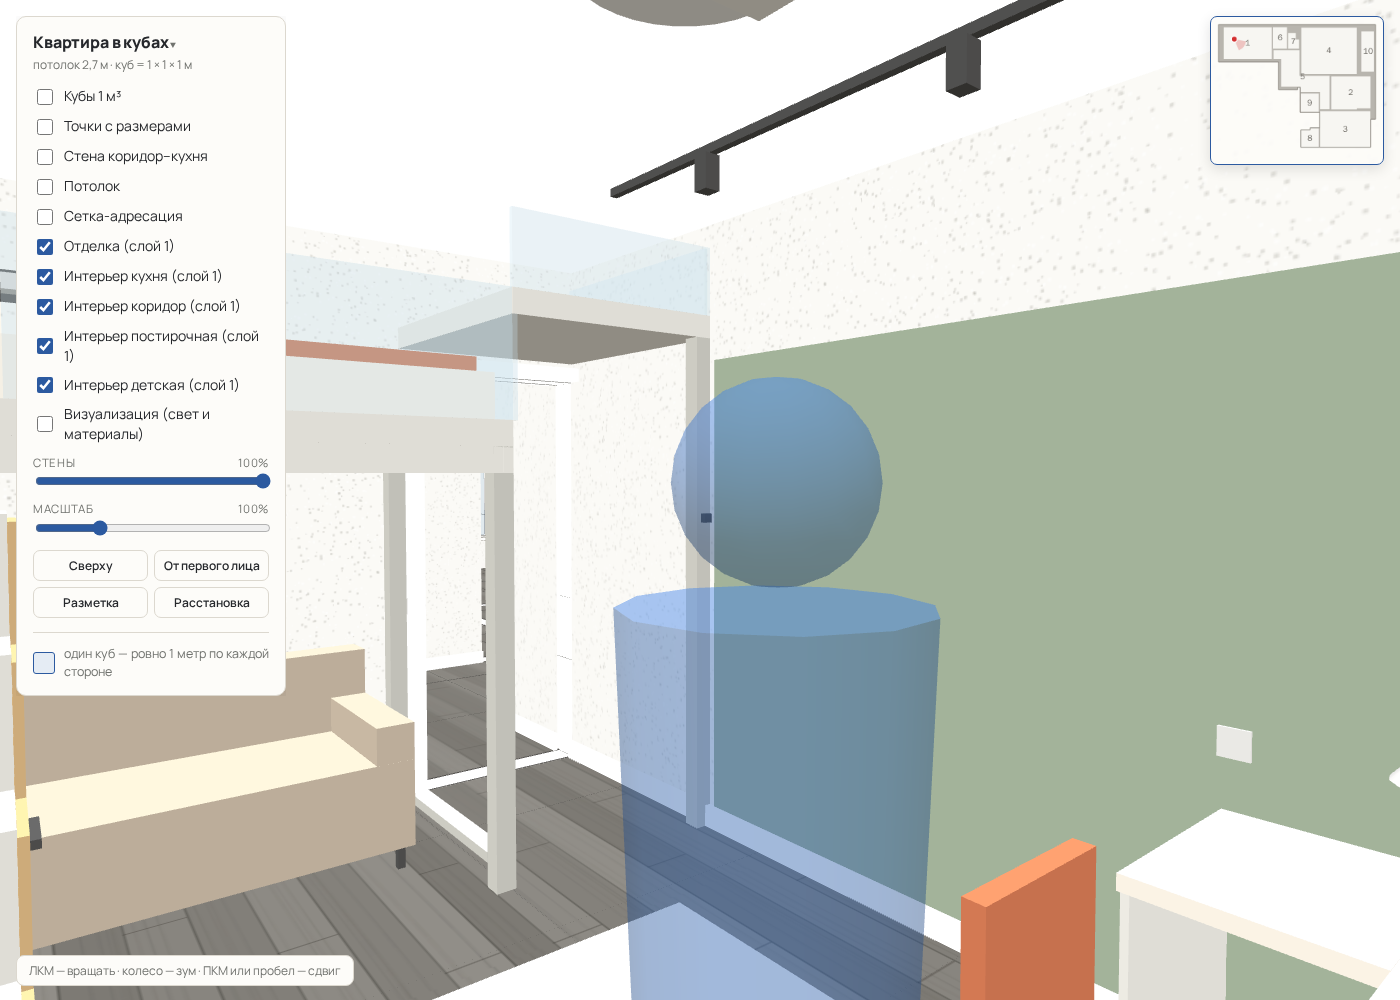
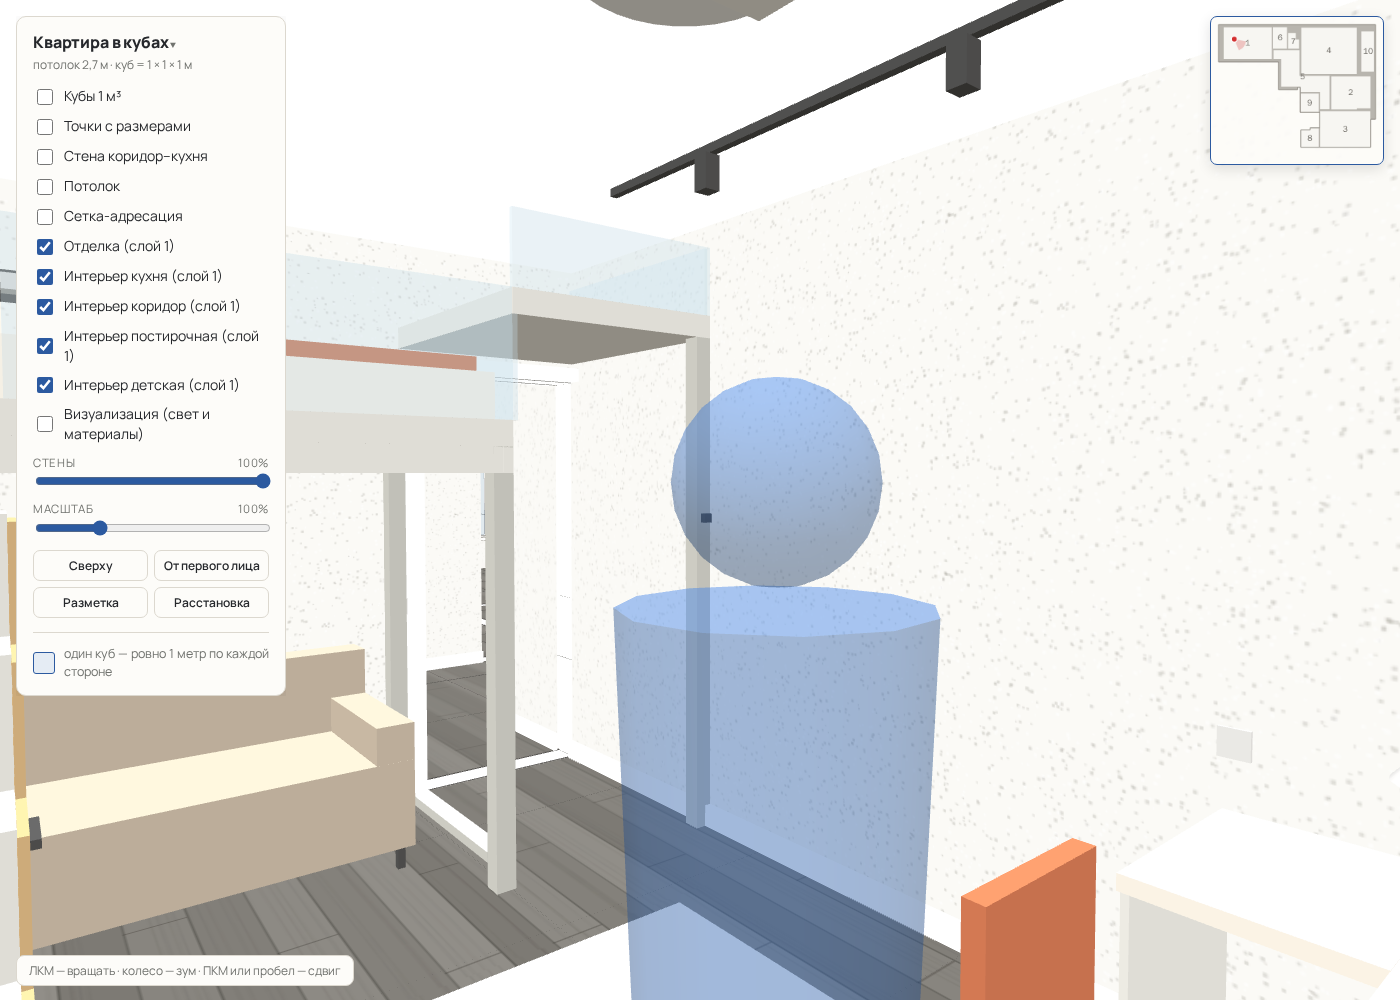
Комната 1: убрать акцентную панель и pegboard

Changed region(s): [[0.4914, 0.248, 1.0, 0.992], [0.86, 0.93, 0.9829, 1.0]]

diff --git a/items.js b/items.js
@@ -144,8 +144,6 @@ const PHYS={}; // id → boxes
        b(0,0.60,0.45,0.60,0,0.15,mat.fabric); b(0,0.60,0.45,0.60,1.45,1.60,mat.fabric);              // armrests
        [[0.03,0.03],[0.69,0.03],[0.03,1.54],[0.69,1.54]].forEach(([x,z])=>b(x,x+0.03,0,0.10,z,z+0.03,mat.knob)); // legs
      }},
-    {id:'pegboard',type:'перфорированная панель над столом',room:1,layer:'kid',pos:[0.95,4.814],rot:0,size:[0.65,1.75,0.03],fixed:'wall',
-     build(b){ b(0,0.65,0.95,1.75,0.01,0.03,mat.oak); [[0.12,1.55],[0.32,1.55],[0.52,1.55],[0.2,1.2],[0.45,1.2]].forEach(([x,y])=>b(x,x+0.03,y,y+0.03,-0.02,0.01,mat.knob)); }}, // hooks
     {id:'kidrug',type:'ковёр моющийся',room:1,layer:'kid',pos:[2.15,2.60],rot:0,size:[1.60,0.01,1.70],
      build(b){ b(0,1.6,0,0.01,0,1.7,mat.rug); }},
     {id:'projector',type:'проектор короткофокусный на потолке (throw ≈0.57, экран M13)',room:1,layer:'kid',pos:[2.15,3.235],rot:0,size:[0.30,2.70,0.25],fixed:'wall',

diff --git a/app.js b/app.js
@@ -848,9 +848,6 @@ var finishGroup=new THREE.Group();
   window.wallFinMats=[wpMat,whiteWall,greyMat,woodMat,frameMat2,plinthMat]; // гасятся ползунком «Стены»
   window.finishMats={lam:lamMat,white:whiteMat,whiteWall,grey:greyMat,wp:wpMat,wood:woodMat,woodFloor,plinth:plinthMat,frame:frameMat2}; // для PBR-двойников (materials.js)
   const DOORS2=DOORS;
-  // room 1, M30: sage accent block on the south wall, 0.1–2.1 (door lintel height), x 1.70–4.20; sits 0.02 in front of the wallpaper
-  const accentMat=new THREE.MeshBasicMaterial({color:0xa3b39a}); wallFinMats.push(accentMat); finishMats.accent=accentMat;
-  (()=>{ const g=new THREE.PlaneGeometry(2.5,2.0); g.rotateY(Math.PI); const m=new THREE.Mesh(g,accentMat); m.position.set(2.95,1.1,4.864-0.02); wallFin.add(m); })();
   PLAN.rooms.forEach(r=>{
     if(r.id===8||r.id===9) return;
     const poly=r.poly;

diff --git a/tools/check.js b/tools/check.js
@@ -357,7 +357,7 @@ const { chromium } = require('playwright');
     const sofaTop = bb(ITEM_GROUPS.kidsofa).max.y;
     return { n: kids.length, inside, hitPlat, warn, tops, sofaTop, bedPos: ITEM_GROUPS.kidbed.userData.pos };
   });
-  if (kid.n < 23) problems.push('комната 1: предметов слоя kid ' + kid.n + ' (< 23)');
+  if (kid.n < 22) problems.push('комната 1: предметов слоя kid ' + kid.n + ' (< 22)');
   if (kid.inside.length) problems.push('комната 1: предметы вне помещения: ' + kid.inside.join(', '));
   if (kid.hitPlat.length) problems.push('комната 1: пересекают платформу кровати: ' + kid.hitPlat.join(', '));
   if (kid.sofaTop > 1.7) problems.push('комната 1: диванчик выше низа платформы: ' + kid.sofaTop);

diff --git a/tasks/room1-kid/README.md b/tasks/room1-kid/README.md
@@ -364,7 +364,7 @@ issue: —
   крыло не длиннее — иначе до габарита кровати < 0.70. Кресло M2 в углу `[1.58, 3.60]`.
 - Стеллаж M3 заменён узким 0.60 × 0.40 × 2.50 в северо-западном углу, спиной к западной стене, фасадом к двери (`rot 270`).
   Перекрывает 0.36 м окна (окно с z 2.11). Тюль M14 начинается от стеллажа.
-- Розетка M24 переехала с северной стены на южную над крылом стола (x 2.06); M27 — x 2.56. Акцентная стена и трек оставлены под постеры.
+- Розетка M24 переехала с северной стены на южную над крылом стола (x 2.06); M27 — x 2.56. Затем убраны и акцентная панель M30, и pegboard M9 (`.local/del1.png`); трек M16 оставлен.
 
 ## Что не делалось (дизайнером)
 
